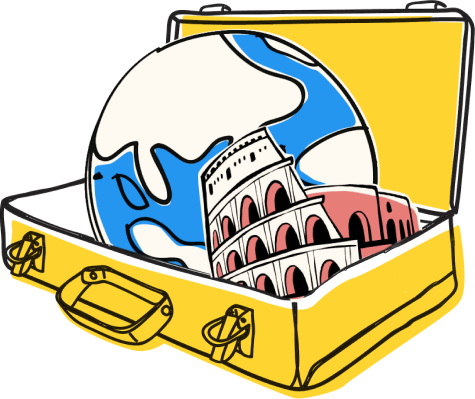
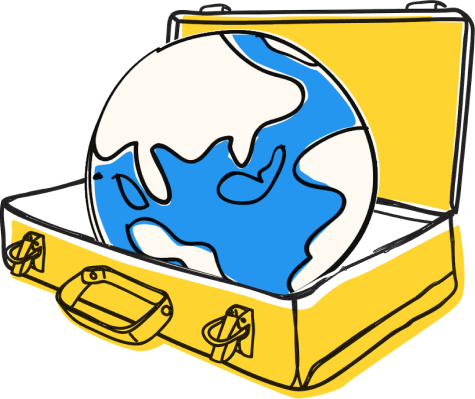
Menu rwd (#14)
* add menu RWD
* fix kv-rwd

Changed region(s): [[0.4126, 0.3008, 0.8842, 0.7519]]

diff --git a/src/components/Menu/Menu.jsx b/src/components/Menu/Menu.jsx
@@ -1,28 +1,82 @@
 // src/components/Menu/Menu.jsx
 
 import logo from '/logo.png'; 
+import './Menu.css';
+import { useState } from 'react';
+
 
 function Menu() {
-  return (
-    <header className=" fixed top-0 left-1/2 transform -translate-x-1/2 w-[98vw] w-min-[1280px] text-white flex items-center justify-between p-4 bg-bg-yellow z-50">
+    // 使用 useState 來控制菜單的顯示狀態
+  const [isMenuOpen, setIsMenuOpen] = useState(false);
 
-      <div className="flex-shrink-0 ml-[2vw]">
-        <a href="https://www.transglobe.com.tw/" target="_blank" rel="noopener noreferrer">
-          <img src={logo} alt="Logo" className="" />
-        </a>
-      </div>
-      {/* Navigation Menu */}
-      <nav className="flex space-x-7 px-14">
-        <a href="./#sec1" className="relative text-black hover:bg-c-orange rounded-full py-2 px-4 font-serif text-[22px] font-bold tracking-wider">
-            跨年出國抽
-            <img src="./menu/new.svg" alt="New" className="absolute top-[-10%] right-[-1%] w-[30px] h-[30px]" />
-        </a>        
-        <a href="./#sec2" className="text-black hover:bg-c-orange rounded-full py-2 px-4 font-serif text-[22px] font-bold tracking-wider">滿保滿額抽</a>
-        <a href="./#sec3" className="text-black hover:bg-c-orange rounded-full py-2 px-4 font-serif text-[22px] font-bold tracking-wider">首次投保抽</a>
-        <a href="/mgm" className="text-black hover:bg-c-orange rounded-full py-2 px-4 font-serif text-[22px] font-bold tracking-wider">分享全球抽</a>
-        <a href="/policy" className="text-black hover:bg-c-orange rounded-full py-2 px-4 font-serif text-[22px] font-bold tracking-wider">活動辦法</a>
-      </nav>
+    // 切換菜單顯示狀態的函數
+    const toggleMenu = () => {
+      setIsMenuOpen(!isMenuOpen);
+    };
+
+  
+  return (
+    /* 網頁版menu */ 
+    <>
+    <header className="menu">
+        <div className="lex-shrink-0 ml-[3vw]">
+          <a href="https://www.transglobe.com.tw/" target="_blank" rel="noopener noreferrer">
+            <img src={logo} alt="Logo" className="" />
+          </a>
+        </div>
+
+        {/* Navigation Menu */}
+        <nav className="flex space-x-7 px-14">
+          <a href="./#sec1" className="relative menu-text">
+              跨年出國抽
+              <img src="./menu/new.svg" alt="New" className="absolute top-[-13%] right-[-2%] w-7 h-7 transfer-position-xy-1" />
+          </a>        
+          <a href="./#sec2" className="menu-text">滿保滿額抽</a>
+          <a href="./#sec3" className="menu-text">首次投保抽</a>
+          <a href="./mgm" className="menu-text">分享全球抽</a>
+          <a href="./policy" className="menu-text">活動辦法</a>
+        </nav>
     </header>
+
+
+      {/* 手機版 Menu */}
+      <header className={`mobile-menu lg:hidden ${isMenuOpen ? 'h-full' : ''}`}>
+          <div className={`flex-shrink-0 w-[26vw] ml-[3vw] mt-2 ${isMenuOpen ? 'hidden' : 'block'}`}>
+            <a href="https://www.transglobe.com.tw/" target="_blank" rel="noopener noreferrer">
+              <img src={logo} alt="Logo" className="" />
+            </a>
+          </div>
+
+          {/* 漢堡按鈕 */}
+          <button 
+            className="absolute top-3 right-4 flex items-center justify-center " 
+            onClick={toggleMenu}
+          >
+            <img 
+            src={isMenuOpen ? './menu/menu-close-sm.svg' :'./menu/menu-hamburger.svg'} 
+            alt={isMenuOpen ? 'Close Menu' : 'Open Menu'} 
+            className="h-12 w-12"
+            />
+            </button>
+
+          {/* Navigation Menu */}
+          <div className='flex flex-col items-center justify-center w-[100vw]'>
+           <nav className={`static flex flex-col items-center justify-center space-y-4 ${isMenuOpen ? '' : 'hidden'}`}>
+
+            <div className=' flex flex-col space-y-6'>
+                  <a href="./#sec1" className="relative mobile-text">
+              跨年出國抽
+                    <img src="./menu/new.svg" alt="New" className="absolute top-[-20%] right-[-5%] w-8 h-6" />
+                </a>        
+                <a href="./#sec2" className="mobile-text">滿保滿額抽</a>
+                <a href="./#sec3" className="mobile-text">首次投保抽</a>
+                <a href="./mgm" className="mobile-text">分享全球抽</a>
+                <a href="./policy" className="mobile-text">活動辦法</a>
+            </div>
+          </nav>
+          </div>
+      </header>
+    </>
   );
 }
 

diff --git a/src/pages/HomePage/HomePage.jsx b/src/pages/HomePage/HomePage.jsx
@@ -1,4 +1,5 @@
-
+// src/pages./homePage./homePage.jsx
+// import Menu from "../../components/Menu/Menu";
 
 function HomePage() {
   return (
@@ -40,9 +41,10 @@ function HomePage() {
                     <div className="flex-[6] md:w-[800px] ">
                         <img src='./home/shadow.png' className="absolute bottom-[14%] left-[25%]  fade-in-from-bottom" ></img>
                         <div className="kv-right relative h-[300px] md:h-[430px] lg:h-[720px]">
-                                <img src='./home/luggage.png' className="w-[63%] absolute bottom-[12%] left-[18%] fade-in-from-bottom"  ></img>
-                                <img src='./home/god.png' className="w-[22%] absolute bottom-[29%] left-[67%] fade-in-from-bottom" style={{ animationDelay: '500ms' }}></img>
-                                <img src='./home/tower.png' className="w-[21%] absolute bottom-[39%] left-[19%] fade-in-from-bottom" style={{ animationDelay: '500ms' }}></img>
+                                <img src='./home/luggage.png' className="w-[62%] absolute bottom-[12%] left-[18%] fade-in-from-bottom"  ></img>
+                                <img src='./home/godness2.png' className="w-[22%] absolute bottom-[29%] left-[65%] fade-in-from-bottom" style={{ animationDelay: '500ms' }}></img>
+                                <img src='./home/building.png' className="w-[30%] absolute bottom-[23%] left-[44%] fade-in-from-bottom" style={{ animationDelay: '500ms' }}></img>
+                                <img src='./home/tower2.png' className="w-[21%] absolute bottom-[39%] left-[19%] fade-in-from-bottom" style={{ animationDelay: '500ms' }}></img>
                                 <img src='./home/flight.png' className="w-[45%] absolute bottom-[46%] left-[27%] fade-in-from-right"style={{ animationDelay: '300ms' }} ></img>
                                 <img src='./home/coupon.png' className="w-[16%] absolute bottom-[75%] left-[4%] fade-in-from-bottom" ></img>
                                 <img src='./home/camera.png' className="w-[14%] absolute bottom-[18%] left-[5%] fade-in-from-bottom" ></img>

diff --git a/src/components/Menu/Menu.css b/src/components/Menu/Menu.css
@@ -1,0 +1,39 @@
+
+/* 網頁版menu */
+.menu{
+    /* 網頁版 */
+    @apply hidden lg:flex;
+    @apply items-center justify-between;
+    @apply w-full min-w-[1280px];
+    @apply fixed top-0 left-1/2 transform -translate-x-1/2;
+    @apply p-4 bg-bg-yellow z-50;
+}
+
+.menu-text {
+    @apply  hover:bg-c-orange rounded-full;
+    @apply  py-2 px-4;
+    @apply  font-serif lg:text-xl text-black font-extrabold tracking-wider;
+}
+
+/* 手機版menu */
+.mobile-menu {
+    @apply fixed top-0 left-0 right-0;
+    @apply flex items-center justify-between;
+    @apply p-4 bg-bg-yellow z-50;
+    @apply w-full h-auto; /* 隨螢幕調整寬高 */
+}
+
+.mobile-text {
+    @apply  hover:bg-c-orange rounded-full ;
+    @apply  py-2 px-4;
+    @apply  font-serif text-center text-2xl text-black font-extrabold tracking-wider;
+}
+
+
+
+
+
+
+
+
+

diff --git a/src/index.css b/src/index.css
@@ -104,4 +104,7 @@
   transform: translateY(-100%); 
 }
 
+.transfer-position-xy-1{
+    @apply transition-transform duration-300 hover:-translate-y-1 hover:-translate-x-1 
+}
 
